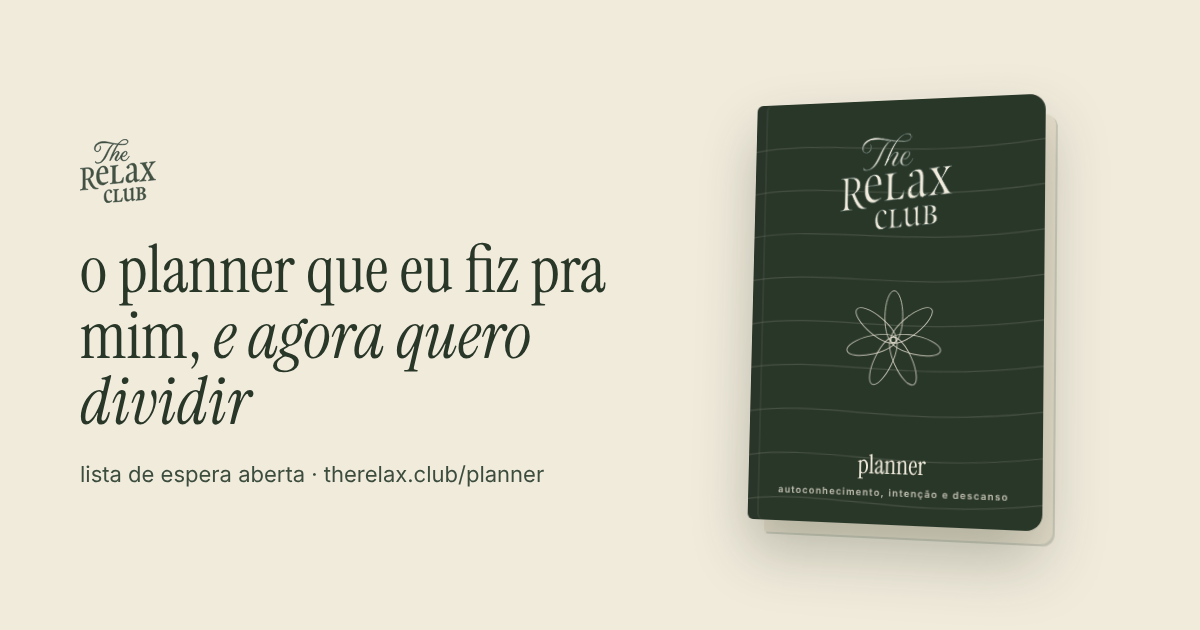
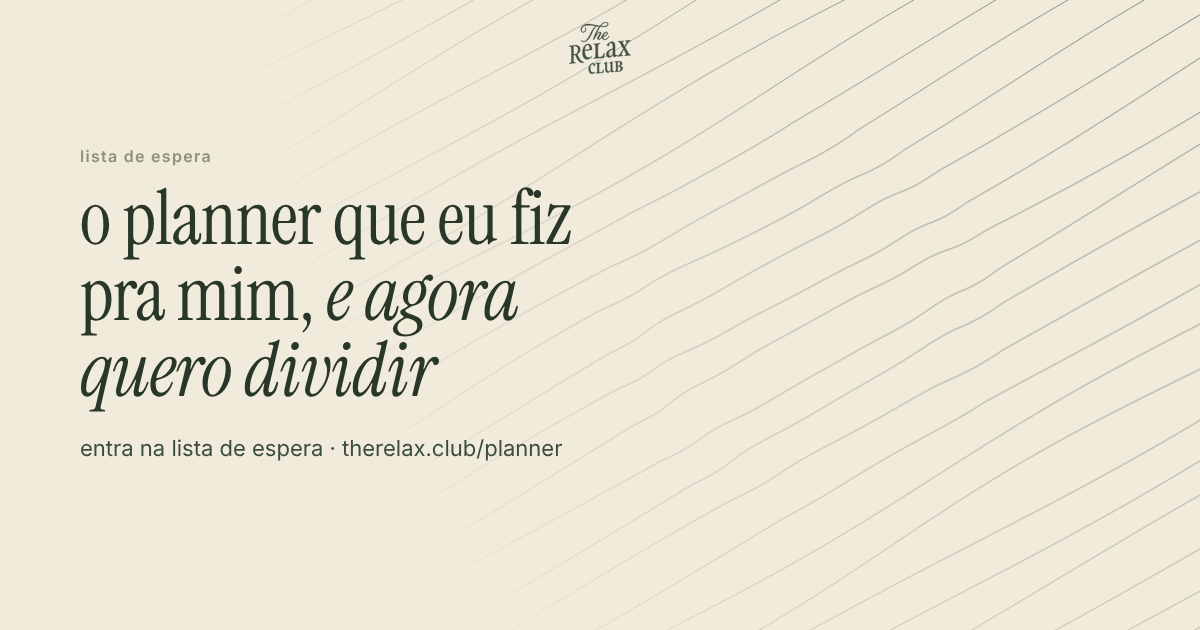
planner: mare na diagonal com interacao no lugar do mockup, universo interativo no o que tem dentro, frase nova
Claude-Session: https://claude.ai/code/session_01UHyGXmNV3W6yahsGyq7Frc

diff --git a/planner/index.html b/planner/index.html
@@ -31,23 +31,15 @@
 .lp-top{display:flex;justify-content:center;padding:22px 0 0}
 .lp-top img{height:52px;display:block}
 .lp-hero{display:grid;gap:36px;align-items:center;padding:36px 0 18px}
-@media(min-width:900px){.lp-hero{grid-template-columns:1.15fr .85fr;gap:56px;padding-top:56px}}
+@media(min-width:900px){.lp-hero{grid-template-columns:minmax(0,640px) 1fr;padding-top:56px}}
 .lp-eyebrow{font-size:12px;font-weight:600;letter-spacing:.08em;color:var(--sage);text-transform:lowercase;margin:0 0 12px}
 .lp h1{font-family:var(--serif);font-weight:300;font-size:clamp(42px,6.2vw,68px);line-height:1;color:var(--green-deep);margin:0 0 18px;text-wrap:balance}
 .lp h1 em{font-style:italic}
 .lp-lead{font-size:17px;line-height:1.6;color:var(--green);margin:0 0 26px;max-width:540px}
-/* livro */
-.livro-palco{perspective:1200px;display:flex;justify-content:center;padding:10px 0 20px}
-.livro{position:relative;width:min(300px,72vw);aspect-ratio:148/210;border-radius:6px 16px 16px 6px;background:var(--green-deep);color:var(--paper);
-  box-shadow:inset 10px 0 0 rgba(0,0,0,.18),inset 12px 0 0 rgba(241,235,220,.06),0 30px 60px rgba(41,55,41,.28),14px 16px 0 -4px #E7DFCC,16px 18px 0 -4px rgba(41,55,41,.18);
-  transform:rotateY(-14deg) rotateX(4deg);transition:transform .7s cubic-bezier(.2,.8,.2,1);display:flex;flex-direction:column;align-items:center;justify-content:space-between;padding:34px 24px 26px;overflow:hidden}
-.livro:hover{transform:rotateY(-4deg) rotateX(2deg)}
-.livro .ln{position:absolute;inset:0;width:100%;height:100%;opacity:.14}
-.livro img{width:46%;position:relative}
-.livro svg.fl{width:46%;position:relative;overflow:visible}
-.livro svg.fl ellipse{fill:none;stroke:rgba(241,235,220,.75);stroke-width:1}
-.livro .tt{position:relative;text-align:center;font-family:var(--serif);font-size:26px;line-height:1.05}
-.livro .tt small{display:block;font-family:var(--sans);font-size:9.5px;letter-spacing:.14em;font-weight:600;opacity:.75;margin-top:8px}
+
+#mare-d{position:absolute;left:0;top:0;width:100%;height:1100px;z-index:0;pointer-events:none;display:block}
+.lp,.fim{position:relative;z-index:1}
+body{position:relative;overflow-x:hidden}
 /* formulário */
 .form{background:var(--cream);border:1px solid var(--line);border-radius:24px;padding:22px 22px 18px;max-width:540px}
 .form h2{font-family:var(--serif);font-weight:300;font-size:28px;line-height:1.05;color:var(--green-deep);margin:0 0 6px}
@@ -70,15 +62,43 @@
 .dentro{padding:46px 0 10px}
 .dentro h2{font-family:var(--serif);font-weight:300;font-size:clamp(32px,4vw,44px);line-height:1.05;color:var(--green-deep);margin:0 0 8px}
 .dentro > p{font-size:16px;color:var(--green);margin:0 0 22px;max-width:620px;line-height:1.6}
-.caps{display:grid;gap:12px}
-@media(min-width:720px){.caps{grid-template-columns:repeat(2,1fr)}}
-@media(min-width:1000px){.caps{grid-template-columns:repeat(3,1fr)}}
-.cap{background:var(--cream);border:1px solid var(--line);border-radius:20px;padding:18px 18px 16px}
-.cap small{display:block;font-size:11.5px;font-weight:600;letter-spacing:.06em;color:var(--sage);margin-bottom:6px}
-.cap b{display:block;font-family:var(--serif);font-weight:300;font-size:24px;line-height:1.1;color:var(--green-deep);margin-bottom:6px}
-.cap span{font-size:14.5px;line-height:1.55;color:var(--green)}
-.cap.escuro{background:var(--green-deep);border-color:var(--green-deep)}
-.cap.escuro small{color:#A8B0A0}.cap.escuro b{color:var(--paper)}.cap.escuro span{color:#D9D3C3}
+
+/* universo */
+.uni-wrap{display:grid;gap:18px;align-items:start}
+@media(min-width:900px){.uni-wrap{grid-template-columns:1fr 1fr;gap:48px;align-items:center}}
+.uni-palco{position:sticky;top:8px;z-index:2;background:linear-gradient(var(--paper) 82%,rgba(241,235,220,0));padding:6px 0 10px}
+@media(min-width:900px){.uni-palco{position:static;background:none;padding:0}}
+.uni{width:min(420px,78vw);display:block;margin:0 auto;overflow:visible}
+.uni .L{transition:opacity .5s ease}
+.uni.foco .L{opacity:.16}
+.uni.foco .L.on{opacity:1}
+.uni circle,.uni ellipse,.uni line{fill:none;stroke:var(--green-deep);stroke-width:1}
+.L-dias circle{fill:var(--green-deep);stroke:none;opacity:.25;animation:dia 9s linear infinite;animation-delay:calc(var(--i)*.05s)}
+@keyframes dia{0%,100%{opacity:.18}6%{opacity:1}22%{opacity:.4}}
+.L-orbitas circle{stroke-opacity:.45}
+.L-orbitas .pl{fill:var(--green-deep);stroke:none}
+.orb{transform-origin:200px 200px;animation:gira var(--d) linear infinite;transform:rotate(calc(var(--r)*1deg))}
+@keyframes gira{from{transform:rotate(calc(var(--r)*1deg))}to{transform:rotate(calc(var(--r)*1deg + 360deg))}}
+.L-pilares line{stroke-width:1.4;stroke-dasharray:3 4}
+.L-ambitos ellipse{stroke-opacity:.8}
+.L-ambitos > g{transform-origin:200px 200px}
+.uni:not(.foco) .L-ambitos > g,.L-ambitos.on > g{animation:respira 6s ease-in-out infinite}
+@keyframes respira{0%,100%{transform:translate(140px,140px) scale(1)}50%{transform:translate(140px,140px) scale(1.06)}}
+.L-centro .cc{fill:var(--green-deep);stroke:none}
+.L-centro .halo{stroke-opacity:.4;animation:halo 3.2s ease-out infinite;transform-origin:200px 200px}
+@keyframes halo{0%{transform:scale(.7);opacity:.9}100%{transform:scale(2.2);opacity:0}}
+.L.on circle,.L.on ellipse,.L.on line{stroke-opacity:1}
+.itens{list-style:none;margin:0;padding:0;display:grid;gap:10px}
+.it{display:flex;gap:14px;align-items:flex-start;background:var(--cream);border:1px solid var(--line);border-radius:20px;padding:16px 16px 14px;cursor:pointer;transition:background .35s,border-color .35s,transform .35s}
+.it:hover,.it.on{background:var(--green-deep);border-color:var(--green-deep);transform:translateX(4px)}
+.it .bol,.colinha .bol{flex:none;width:40px;height:40px;border-radius:50%;border:1px solid var(--line);display:grid;place-items:center;color:var(--green-deep);background:var(--paper);transition:all .35s}
+.it .bol svg,.colinha .bol svg{width:22px;height:22px}
+.it.on .bol,.it:hover .bol{background:transparent;border-color:rgba(241,235,220,.4);color:var(--paper)}
+.it .tx b{display:block;font-family:var(--serif);font-weight:300;font-size:23px;line-height:1.1;color:var(--green-deep);margin-bottom:4px;transition:color .35s}
+.it .tx span{font-size:14.5px;line-height:1.55;color:var(--green);transition:color .35s}
+.it.on .tx b,.it:hover .tx b{color:var(--paper)}.it.on .tx span,.it:hover .tx span{color:#D9D3C3}
+.colinha{display:flex;gap:14px;align-items:center;margin:18px 0 0;font-size:15px;color:var(--green);max-width:620px}
+@media (prefers-reduced-motion:reduce){.uni *{animation:none!important}}
 .por-que{display:grid;gap:22px;align-items:center;padding:46px 0 20px}
 @media(min-width:900px){.por-que{grid-template-columns:auto 1fr;gap:34px}}
 .por-que img{width:96px;height:96px;border-radius:50%;object-fit:cover}
@@ -89,6 +109,7 @@
 </style>
 </head>
 <body>
+<canvas id="mare-d" aria-hidden="true"></canvas>
 <div class="lp">
 <header class="lp-top"><a href="/" aria-label="the relax club, ir pra sede"><img src="/logo.svg" alt="the relax club" width="62" height="52"></a></header>
 
@@ -117,32 +138,27 @@
       </div>
     </form>
   </div>
-  <div class="livro-palco" aria-hidden="true">
-    <div class="livro">
-      <svg class="ln" viewBox="0 0 148 210" preserveAspectRatio="none"><path d="M0 24 C 40 18, 80 31, 148 22" fill="none" stroke="#F1EBDC" stroke-width=".6"/><path d="M0 46 C 40 40, 80 53, 148 44" fill="none" stroke="#F1EBDC" stroke-width=".6"/><path d="M0 68 C 40 62, 80 75, 148 66" fill="none" stroke="#F1EBDC" stroke-width=".6"/><path d="M0 90 C 40 84, 80 97, 148 88" fill="none" stroke="#F1EBDC" stroke-width=".6"/><path d="M0 112 C 40 106, 80 119, 148 110" fill="none" stroke="#F1EBDC" stroke-width=".6"/><path d="M0 134 C 40 128, 80 141, 148 132" fill="none" stroke="#F1EBDC" stroke-width=".6"/><path d="M0 156 C 40 150, 80 163, 148 154" fill="none" stroke="#F1EBDC" stroke-width=".6"/><path d="M0 178 C 40 172, 80 185, 148 176" fill="none" stroke="#F1EBDC" stroke-width=".6"/><path d="M0 200 C 40 194, 80 207, 148 198" fill="none" stroke="#F1EBDC" stroke-width=".6"/></svg>
-      <img src="/logo-claro.svg" alt="">
-      <svg class="fl" viewBox="0 0 120 120"><ellipse cx="60" cy="36" rx="9.5" ry="27" transform="rotate(0 60 36)"/><ellipse cx="78.8" cy="45" rx="9.5" ry="27" transform="rotate(51.43 78.8 45)"/><ellipse cx="83.4" cy="65.3" rx="9.5" ry="27" transform="rotate(102.86 83.4 65.3)"/><ellipse cx="70.4" cy="81.6" rx="9.5" ry="27" transform="rotate(154.29 70.4 81.6)"/><ellipse cx="49.6" cy="81.6" rx="9.5" ry="27" transform="rotate(205.71 49.6 81.6)"/><ellipse cx="36.6" cy="65.3" rx="9.5" ry="27" transform="rotate(257.14 36.6 65.3)"/><ellipse cx="41.2" cy="45" rx="9.5" ry="27" transform="rotate(308.57 41.2 45)"/></svg>
-      <div class="tt">planner<small>AUTOCONHECIMENTO, INTENÇÃO E DESCANSO</small></div>
-    </div>
-  </div>
 </section>
 
-<section class="dentro">
+<section class="dentro" id="dentro">
   <h2>o que tem dentro</h2>
-  <p>primeiro uma fundação, pra você entender o seu cenário de vida hoje e desenhar o que quer. depois o dia a dia, que vai alimentando essa fundação.</p>
-  <div class="caps">
-    <div class="cap"><small>01</small><b>o centro</b><span>as histórias que te contaram sobre quem você deveria ser, os papéis que você exerce, o que você sente e do que precisa.</span></div>
-    <div class="cap"><small>02</small><b>as órbitas</b><span>trabalho, família, casa, o que te ocupa. o que cada coisa faz de bom e de ruim pra você.</span></div>
-    <div class="cap"><small>03</small><b>os pilares</b><span>o que sustenta a sua vida de verdade, e por que cada coisa importa.</span></div>
-    <div class="cap"><small>04</small><b>os 7 âmbitos da energia</b><span>físico, mental, emocional, social, sensorial, criativo e espiritual. o que te cansa e o que te recarrega em cada um.</span></div>
-    <div class="cap escuro"><small>todo dia</small><b>seis meses, uma página por dia</b><span>com páginas de mês e de semana, pra registrar o que drenou, o que deu energia e o que te deixou mais feliz.</span></div>
-    <div class="cap"><small>pra não travar</small><b>colinhas em todo exercício</b><span>exemplos e opções pra você nunca ficar olhando pra página em branco.</span></div>
+  <p>o planner funciona como um universo. você no centro, o que gira ao seu redor, o que te sustenta e a sua energia. passa o dedo (ou o mouse) em cada parte pra ver.</p>
+  <div class="uni-wrap">
+    <div class="uni-palco"><svg class="uni" viewBox="0 0 400 400" role="img" aria-label="o universo do planner: o centro, as órbitas, os pilares, os 7 âmbitos da energia e os dias">
+  <g class="L L-dias"><circle cx="200.0" cy="24.0" r="1.7" style="--i:0"/><circle cx="206.1" cy="24.1" r="1.7" style="--i:1"/><circle cx="212.3" cy="24.4" r="1.7" style="--i:2"/><circle cx="218.4" cy="25.0" r="1.7" style="--i:3"/><circle cx="224.5" cy="25.7" r="1.7" style="--i:4"/><circle cx="230.6" cy="26.7" r="1.7" style="--i:5"/><circle cx="236.6" cy="27.8" r="1.7" style="--i:6"/><circle cx="242.6" cy="29.2" r="1.7" style="--i:7"/><circle cx="248.5" cy="30.8" r="1.7" style="--i:8"/><circle cx="254.4" cy="32.6" r="1.7" style="--i:9"/><circle cx="260.2" cy="34.6" r="1.7" style="--i:10"/><circle cx="265.9" cy="36.8" r="1.7" style="--i:11"/><circle cx="271.6" cy="39.2" r="1.7" style="--i:12"/><circle cx="277.2" cy="41.8" r="1.7" style="--i:13"/><circle cx="282.6" cy="44.6" r="1.7" style="--i:14"/><circle cx="288.0" cy="47.6" r="1.7" style="--i:15"/><circle cx="293.3" cy="50.7" r="1.7" style="--i:16"/><circle cx="298.4" cy="54.1" r="1.7" style="--i:17"/><circle cx="303.5" cy="57.6" r="1.7" style="--i:18"/><circle cx="308.4" cy="61.3" r="1.7" style="--i:19"/><circle cx="313.1" cy="65.2" r="1.7" style="--i:20"/><circle cx="317.8" cy="69.2" r="1.7" style="--i:21"/><circle cx="322.3" cy="73.4" r="1.7" style="--i:22"/><circle cx="326.6" cy="77.7" r="1.7" style="--i:23"/><circle cx="330.8" cy="82.2" r="1.7" style="--i:24"/><circle cx="334.8" cy="86.9" r="1.7" style="--i:25"/><circle cx="338.7" cy="91.6" r="1.7" style="--i:26"/><circle cx="342.4" cy="96.5" r="1.7" style="--i:27"/><circle cx="345.9" cy="101.6" r="1.7" style="--i:28"/><circle cx="349.3" cy="106.7" r="1.7" style="--i:29"/><circle cx="352.4" cy="112.0" r="1.7" style="--i:30"/><circle cx="355.4" cy="117.4" r="1.7" style="--i:31"/><circle cx="358.2" cy="122.8" r="1.7" style="--i:32"/><circle cx="360.8" cy="128.4" r="1.7" style="--i:33"/><circle cx="363.2" cy="134.1" r="1.7" style="--i:34"/><circle cx="365.4" cy="139.8" r="1.7" style="--i:35"/><circle cx="367.4" cy="145.6" r="1.7" style="--i:36"/><circle cx="369.2" cy="151.5" r="1.7" style="--i:37"/><circle cx="370.8" cy="157.4" r="1.7" style="--i:38"/><circle cx="372.2" cy="163.4" r="1.7" style="--i:39"/><circle cx="373.3" cy="169.4" r="1.7" style="--i:40"/><circle cx="374.3" cy="175.5" r="1.7" style="--i:41"/><circle cx="375.0" cy="181.6" r="1.7" style="--i:42"/><circle cx="375.6" cy="187.7" r="1.7" style="--i:43"/><circle cx="375.9" cy="193.9" r="1.7" style="--i:44"/><circle cx="376.0" cy="200.0" r="1.7" style="--i:45"/><circle cx="375.9" cy="206.1" r="1.7" style="--i:46"/><circle cx="375.6" cy="212.3" r="1.7" style="--i:47"/><circle cx="375.0" cy="218.4" r="1.7" style="--i:48"/><circle cx="374.3" cy="224.5" r="1.7" style="--i:49"/><circle cx="373.3" cy="230.6" r="1.7" style="--i:50"/><circle cx="372.2" cy="236.6" r="1.7" style="--i:51"/><circle cx="370.8" cy="242.6" r="1.7" style="--i:52"/><circle cx="369.2" cy="248.5" r="1.7" style="--i:53"/><circle cx="367.4" cy="254.4" r="1.7" style="--i:54"/><circle cx="365.4" cy="260.2" r="1.7" style="--i:55"/><circle cx="363.2" cy="265.9" r="1.7" style="--i:56"/><circle cx="360.8" cy="271.6" r="1.7" style="--i:57"/><circle cx="358.2" cy="277.2" r="1.7" style="--i:58"/><circle cx="355.4" cy="282.6" r="1.7" style="--i:59"/><circle cx="352.4" cy="288.0" r="1.7" style="--i:60"/><circle cx="349.3" cy="293.3" r="1.7" style="--i:61"/><circle cx="345.9" cy="298.4" r="1.7" style="--i:62"/><circle cx="342.4" cy="303.5" r="1.7" style="--i:63"/><circle cx="338.7" cy="308.4" r="1.7" style="--i:64"/><circle cx="334.8" cy="313.1" r="1.7" style="--i:65"/><circle cx="330.8" cy="317.8" r="1.7" style="--i:66"/><circle cx="326.6" cy="322.3" r="1.7" style="--i:67"/><circle cx="322.3" cy="326.6" r="1.7" style="--i:68"/><circle cx="317.8" cy="330.8" r="1.7" style="--i:69"/><circle cx="313.1" cy="334.8" r="1.7" style="--i:70"/><circle cx="308.4" cy="338.7" r="1.7" style="--i:71"/><circle cx="303.5" cy="342.4" r="1.7" style="--i:72"/><circle cx="298.4" cy="345.9" r="1.7" style="--i:73"/><circle cx="293.3" cy="349.3" r="1.7" style="--i:74"/><circle cx="288.0" cy="352.4" r="1.7" style="--i:75"/><circle cx="282.6" cy="355.4" r="1.7" style="--i:76"/><circle cx="277.2" cy="358.2" r="1.7" style="--i:77"/><circle cx="271.6" cy="360.8" r="1.7" style="--i:78"/><circle cx="265.9" cy="363.2" r="1.7" style="--i:79"/><circle cx="260.2" cy="365.4" r="1.7" style="--i:80"/><circle cx="254.4" cy="367.4" r="1.7" style="--i:81"/><circle cx="248.5" cy="369.2" r="1.7" style="--i:82"/><circle cx="242.6" cy="370.8" r="1.7" style="--i:83"/><circle cx="236.6" cy="372.2" r="1.7" style="--i:84"/><circle cx="230.6" cy="373.3" r="1.7" style="--i:85"/><circle cx="224.5" cy="374.3" r="1.7" style="--i:86"/><circle cx="218.4" cy="375.0" r="1.7" style="--i:87"/><circle cx="212.3" cy="375.6" r="1.7" style="--i:88"/><circle cx="206.1" cy="375.9" r="1.7" style="--i:89"/><circle cx="200.0" cy="376.0" r="1.7" style="--i:90"/><circle cx="193.9" cy="375.9" r="1.7" style="--i:91"/><circle cx="187.7" cy="375.6" r="1.7" style="--i:92"/><circle cx="181.6" cy="375.0" r="1.7" style="--i:93"/><circle cx="175.5" cy="374.3" r="1.7" style="--i:94"/><circle cx="169.4" cy="373.3" r="1.7" style="--i:95"/><circle cx="163.4" cy="372.2" r="1.7" style="--i:96"/><circle cx="157.4" cy="370.8" r="1.7" style="--i:97"/><circle cx="151.5" cy="369.2" r="1.7" style="--i:98"/><circle cx="145.6" cy="367.4" r="1.7" style="--i:99"/><circle cx="139.8" cy="365.4" r="1.7" style="--i:100"/><circle cx="134.1" cy="363.2" r="1.7" style="--i:101"/><circle cx="128.4" cy="360.8" r="1.7" style="--i:102"/><circle cx="122.8" cy="358.2" r="1.7" style="--i:103"/><circle cx="117.4" cy="355.4" r="1.7" style="--i:104"/><circle cx="112.0" cy="352.4" r="1.7" style="--i:105"/><circle cx="106.7" cy="349.3" r="1.7" style="--i:106"/><circle cx="101.6" cy="345.9" r="1.7" style="--i:107"/><circle cx="96.5" cy="342.4" r="1.7" style="--i:108"/><circle cx="91.6" cy="338.7" r="1.7" style="--i:109"/><circle cx="86.9" cy="334.8" r="1.7" style="--i:110"/><circle cx="82.2" cy="330.8" r="1.7" style="--i:111"/><circle cx="77.7" cy="326.6" r="1.7" style="--i:112"/><circle cx="73.4" cy="322.3" r="1.7" style="--i:113"/><circle cx="69.2" cy="317.8" r="1.7" style="--i:114"/><circle cx="65.2" cy="313.1" r="1.7" style="--i:115"/><circle cx="61.3" cy="308.4" r="1.7" style="--i:116"/><circle cx="57.6" cy="303.5" r="1.7" style="--i:117"/><circle cx="54.1" cy="298.4" r="1.7" style="--i:118"/><circle cx="50.7" cy="293.3" r="1.7" style="--i:119"/><circle cx="47.6" cy="288.0" r="1.7" style="--i:120"/><circle cx="44.6" cy="282.6" r="1.7" style="--i:121"/><circle cx="41.8" cy="277.2" r="1.7" style="--i:122"/><circle cx="39.2" cy="271.6" r="1.7" style="--i:123"/><circle cx="36.8" cy="265.9" r="1.7" style="--i:124"/><circle cx="34.6" cy="260.2" r="1.7" style="--i:125"/><circle cx="32.6" cy="254.4" r="1.7" style="--i:126"/><circle cx="30.8" cy="248.5" r="1.7" style="--i:127"/><circle cx="29.2" cy="242.6" r="1.7" style="--i:128"/><circle cx="27.8" cy="236.6" r="1.7" style="--i:129"/><circle cx="26.7" cy="230.6" r="1.7" style="--i:130"/><circle cx="25.7" cy="224.5" r="1.7" style="--i:131"/><circle cx="25.0" cy="218.4" r="1.7" style="--i:132"/><circle cx="24.4" cy="212.3" r="1.7" style="--i:133"/><circle cx="24.1" cy="206.1" r="1.7" style="--i:134"/><circle cx="24.0" cy="200.0" r="1.7" style="--i:135"/><circle cx="24.1" cy="193.9" r="1.7" style="--i:136"/><circle cx="24.4" cy="187.7" r="1.7" style="--i:137"/><circle cx="25.0" cy="181.6" r="1.7" style="--i:138"/><circle cx="25.7" cy="175.5" r="1.7" style="--i:139"/><circle cx="26.7" cy="169.4" r="1.7" style="--i:140"/><circle cx="27.8" cy="163.4" r="1.7" style="--i:141"/><circle cx="29.2" cy="157.4" r="1.7" style="--i:142"/><circle cx="30.8" cy="151.5" r="1.7" style="--i:143"/><circle cx="32.6" cy="145.6" r="1.7" style="--i:144"/><circle cx="34.6" cy="139.8" r="1.7" style="--i:145"/><circle cx="36.8" cy="134.1" r="1.7" style="--i:146"/><circle cx="39.2" cy="128.4" r="1.7" style="--i:147"/><circle cx="41.8" cy="122.8" r="1.7" style="--i:148"/><circle cx="44.6" cy="117.4" r="1.7" style="--i:149"/><circle cx="47.6" cy="112.0" r="1.7" style="--i:150"/><circle cx="50.7" cy="106.7" r="1.7" style="--i:151"/><circle cx="54.1" cy="101.6" r="1.7" style="--i:152"/><circle cx="57.6" cy="96.5" r="1.7" style="--i:153"/><circle cx="61.3" cy="91.6" r="1.7" style="--i:154"/><circle cx="65.2" cy="86.9" r="1.7" style="--i:155"/><circle cx="69.2" cy="82.2" r="1.7" style="--i:156"/><circle cx="73.4" cy="77.7" r="1.7" style="--i:157"/><circle cx="77.7" cy="73.4" r="1.7" style="--i:158"/><circle cx="82.2" cy="69.2" r="1.7" style="--i:159"/><circle cx="86.9" cy="65.2" r="1.7" style="--i:160"/><circle cx="91.6" cy="61.3" r="1.7" style="--i:161"/><circle cx="96.5" cy="57.6" r="1.7" style="--i:162"/><circle cx="101.6" cy="54.1" r="1.7" style="--i:163"/><circle cx="106.7" cy="50.7" r="1.7" style="--i:164"/><circle cx="112.0" cy="47.6" r="1.7" style="--i:165"/><circle cx="117.4" cy="44.6" r="1.7" style="--i:166"/><circle cx="122.8" cy="41.8" r="1.7" style="--i:167"/><circle cx="128.4" cy="39.2" r="1.7" style="--i:168"/><circle cx="134.1" cy="36.8" r="1.7" style="--i:169"/><circle cx="139.8" cy="34.6" r="1.7" style="--i:170"/><circle cx="145.6" cy="32.6" r="1.7" style="--i:171"/><circle cx="151.5" cy="30.8" r="1.7" style="--i:172"/><circle cx="157.4" cy="29.2" r="1.7" style="--i:173"/><circle cx="163.4" cy="27.8" r="1.7" style="--i:174"/><circle cx="169.4" cy="26.7" r="1.7" style="--i:175"/><circle cx="175.5" cy="25.7" r="1.7" style="--i:176"/><circle cx="181.6" cy="25.0" r="1.7" style="--i:177"/><circle cx="187.7" cy="24.4" r="1.7" style="--i:178"/><circle cx="193.9" cy="24.1" r="1.7" style="--i:179"/></g>
+  <g class="L L-orbitas"><g class="orb" style="--d:38s;--r:0"><circle cx="200" cy="200" r="96" /><circle class="pl" cx="296" cy="200" r="4.5"/></g><g class="orb" style="--d:56s;--r:120"><circle cx="200" cy="200" r="124" /><circle class="pl" cx="324" cy="200" r="3.5"/></g><g class="orb" style="--d:80s;--r:240"><circle cx="200" cy="200" r="152" /><circle class="pl" cx="352" cy="200" r="5"/></g></g>
+  <g class="L L-pilares"><line x1="257.3" y1="240.2" x2="322.9" y2="286.0"/><line x1="142.7" y1="240.2" x2="77.1" y2="286.0"/><line x1="142.7" y1="159.8" x2="77.1" y2="114.0"/><line x1="257.3" y1="159.8" x2="322.9" y2="114.0"/></g>
+  <g class="L L-ambitos"><g transform="translate(140 140)"><ellipse cx="60" cy="36" rx="9.5" ry="27" transform="rotate(0 60 36)"/><ellipse cx="78.8" cy="45" rx="9.5" ry="27" transform="rotate(51.43 78.8 45)"/><ellipse cx="83.4" cy="65.3" rx="9.5" ry="27" transform="rotate(102.86 83.4 65.3)"/><ellipse cx="70.4" cy="81.6" rx="9.5" ry="27" transform="rotate(154.29 70.4 81.6)"/><ellipse cx="49.6" cy="81.6" rx="9.5" ry="27" transform="rotate(205.71 49.6 81.6)"/><ellipse cx="36.6" cy="65.3" rx="9.5" ry="27" transform="rotate(257.14 36.6 65.3)"/><ellipse cx="41.2" cy="45" rx="9.5" ry="27" transform="rotate(308.57 41.2 45)"/></g></g>
+  <g class="L L-centro"><circle cx="200" cy="200" r="16" class="cc"/><circle cx="200" cy="200" r="26" class="halo"/></g>
+</svg></div>
+    <ol class="itens"><li class="it" data-l="centro" tabindex="0"><span class="bol"><svg viewBox="0 0 24 24" fill="none" stroke="currentColor" stroke-width="1.4"><circle cx="12" cy="12" r="3.4" fill="currentColor"/><circle cx="12" cy="12" r="6.5"/></svg></span><span class="tx"><b>o centro</b><span>as histórias que te contaram sobre quem você deveria ser, os papéis que você exerce, o que você sente e do que precisa. é aqui que tudo começa: você.</span></span></li><li class="it" data-l="orbitas" tabindex="0"><span class="bol"><svg viewBox="0 0 24 24" fill="none" stroke="currentColor" stroke-width="1.4"><circle cx="12" cy="12" r="1.8" fill="currentColor"/><circle cx="12" cy="12" r="8" stroke-dasharray="2 2"/><circle cx="17.7" cy="6.3" r="1.7" fill="currentColor"/></svg></span><span class="tx"><b>as órbitas</b><span>trabalho, família, casa, tudo o que gira ao seu redor. o que cada coisa faz de bom e de ruim pra você.</span></span></li><li class="it" data-l="pilares" tabindex="0"><span class="bol"><svg viewBox="0 0 24 24" fill="none" stroke="currentColor" stroke-width="1.4"><path d="M6 19V7M12 19V5M18 19V7M4 19h16"/></svg></span><span class="tx"><b>os pilares</b><span>o que sustenta a sua vida de verdade, e por que cada coisa importa pra você.</span></span></li><li class="it" data-l="ambitos" tabindex="0"><span class="bol"><svg viewBox="0 0 24 24" fill="none" stroke="currentColor" stroke-width="1.4"><ellipse cx="12" cy="6.6" rx="1.8" ry="5" transform="rotate(0.0 12 12)"/><ellipse cx="12" cy="6.6" rx="1.8" ry="5" transform="rotate(51.43 12 12)"/><ellipse cx="12" cy="6.6" rx="1.8" ry="5" transform="rotate(102.86 12 12)"/><ellipse cx="12" cy="6.6" rx="1.8" ry="5" transform="rotate(154.29 12 12)"/><ellipse cx="12" cy="6.6" rx="1.8" ry="5" transform="rotate(205.72 12 12)"/><ellipse cx="12" cy="6.6" rx="1.8" ry="5" transform="rotate(257.15 12 12)"/><ellipse cx="12" cy="6.6" rx="1.8" ry="5" transform="rotate(308.58 12 12)"/></svg></span><span class="tx"><b>os 7 âmbitos da energia</b><span>físico, mental, emocional, social, sensorial, criativo e espiritual. o que te cansa e o que te recarrega em cada um.</span></span></li><li class="it" data-l="dias" tabindex="0"><span class="bol"><svg viewBox="0 0 24 24" fill="none" stroke="currentColor" stroke-width="1.4"><circle cx="20.0" cy="12.0" r="1.1" fill="currentColor"/><circle cx="18.9" cy="16.0" r="1.1" fill="currentColor"/><circle cx="16.0" cy="18.9" r="1.1" fill="currentColor"/><circle cx="12.0" cy="20.0" r="1.1" fill="currentColor"/><circle cx="8.0" cy="18.9" r="1.1" fill="currentColor"/><circle cx="5.1" cy="16.0" r="1.1" fill="currentColor"/><circle cx="4.0" cy="12.0" r="1.1" fill="currentColor"/><circle cx="5.1" cy="8.0" r="1.1" fill="currentColor"/><circle cx="8.0" cy="5.1" r="1.1" fill="currentColor"/><circle cx="12.0" cy="4.0" r="1.1" fill="currentColor"/><circle cx="16.0" cy="5.1" r="1.1" fill="currentColor"/><circle cx="18.9" cy="8.0" r="1.1" fill="currentColor"/></svg></span><span class="tx"><b>seis meses, um dia de cada vez</b><span>uma página por dia, com mês e semana, pra registrar o que drenou, o que deu energia e o que te deixou mais feliz. o dia a dia vai alimentando tudo o que veio antes.</span></span></li></ol>
   </div>
+  <p class="colinha"><span class="bol"><svg viewBox="0 0 24 24" fill="none" stroke="currentColor" stroke-width="1.4"><path d="M6 4h9l3 3v13H6z"/><path d="M9 10h6M9 13h6M9 16h4"/></svg></span>e em todo exercício tem colinha, com exemplos e opções, pra você nunca ficar olhando pra página em branco.</p>
 </section>
 
 <section class="por-que">
   <img src="/teste/clara.jpg" alt="clara ramos" width="96" height="96">
-  <p>“eu li muitos livros nesse meu processo de autoconhecimento e fui montando exercícios a partir das técnicas que encontrei neles. juntei tudo num planner que eu fiz pra mim, usei, e agora quero compartilhar.”<span>clara ramos, criadora da the relax club</span></p>
+  <p>“eu li alguns livros no meu processo de autoconhecimento e fui montando exercícios a partir das técnicas que encontrei neles. então juntei tudo num planner que fiz pra mim, usei, e agora quero compartilhar.”<span>clara ramos, criadora da the relax club</span></p>
 </section>
 
 <div class="fim-cta"><a href="#form" id="subir">entrar na lista de espera</a></div>
@@ -170,6 +186,68 @@
     })
     .catch(function(){ btn.disabled=false; btn.textContent='quero entrar na lista'; msg.textContent='não consegui salvar agora. tenta de novo em um minutinho?'; });
   });
+})();
+</script>
+
+<script>
+/* universo do planner: passa o mouse, toca ou rola até cada parte e ela acende no desenho */
+(function(){
+  var uni=document.querySelector('.uni'), its=[].slice.call(document.querySelectorAll('.it')), atual=null, auto=true, idx=0;
+  function liga(k){ atual=k; uni.classList.toggle('foco',!!k);
+    [].forEach.call(uni.querySelectorAll('.L'),function(g){ g.classList.toggle('on',g.classList.contains('L-'+k)); });
+    its.forEach(function(i){ i.classList.toggle('on',i.dataset.l===k); }); }
+  its.forEach(function(i){
+    i.addEventListener('mouseenter',function(){ auto=false; liga(i.dataset.l); });
+    i.addEventListener('focus',function(){ auto=false; liga(i.dataset.l); });
+    i.addEventListener('click',function(){ auto=false; liga(i.dataset.l); try{gtag('event','planner_universo',{parte:i.dataset.l});}catch(e){} });
+  });
+  document.querySelector('.itens').addEventListener('mouseleave',function(){ if(matchMedia('(hover:hover)').matches){ auto=true; } });
+  if(matchMedia('(hover:none)').matches && 'IntersectionObserver' in window){
+    var io=new IntersectionObserver(function(es){ es.forEach(function(e){ if(e.isIntersecting){ auto=false; liga(e.target.dataset.l); } }); },{rootMargin:'-55% 0px -35% 0px'});
+    its.forEach(function(i){ io.observe(i); });
+  }
+  setInterval(function(){ if(!auto) return; liga(its[idx%its.length].dataset.l); idx++; },2600);
+})();
+
+/* maré na diagonal, no alto à direita: o mouse (ou o dedo) faz a água reverberar */
+(function(){
+  var c=document.getElementById('mare-d'), x=c.getContext('2d');
+  var reduce=matchMedia('(prefers-reduced-motion: reduce)').matches, touch=matchMedia('(hover: none)').matches;
+  var W=0,H=0,lines=[], ang=-0.52, ux=Math.cos(ang), uy=Math.sin(ang), nx=-uy, ny=ux;
+  function fit(){ var d=devicePixelRatio||1; W=document.documentElement.clientWidth; H=Math.min(1100,Math.max(700,innerHeight*1.15)); c.style.height=H+'px';
+    c.width=W*d; c.height=H*d; x.setTransform(d,0,0,d,0,0);
+    var gap=W<700?30:38, n=Math.ceil((W+H)/gap)+2; lines=[]; for(var i=0;i<n;i++) lines.push({o:(i-n/2)*gap,a:3+Math.random()*4,f:1+Math.random()*1.2,s:.15+Math.random()*.2,p:Math.random()*6}); }
+  fit(); addEventListener('resize',fit);
+  var rip=[], last=0;
+  function add(px,py,force,amp){ var now=performance.now(); if(now-last<90&&!force) return; last=now; rip.push({x:px,y:py,t:now,amp:amp||(force?16:9)}); if(rip.length>14) rip.shift(); }
+  addEventListener('pointermove',function(e){ if(e.pointerType==='mouse') add(e.clientX,e.clientY+scrollY,false); });
+  addEventListener('pointerdown',function(e){ add(e.clientX,e.clientY+scrollY,true); });
+  var cx=0,cy=0;
+  function draw(t){
+    var T=t/1000; x.clearRect(0,0,W,H); cx=W*.72; cy=H*.32; var L=Math.hypot(W,H);
+    for(var r=rip.length-1;r>=0;r--) if(t-rip[r].t>3200) rip.splice(r,1);
+    x.globalCompositeOperation='source-over'; x.strokeStyle='#293729'; x.lineWidth=1; x.globalAlpha=W<700?.38:.55;
+    lines.forEach(function(Ln,i){
+      x.beginPath();
+      for(var s=-L;s<=L;s+=7){
+        var w=Math.sin(s/L*Math.PI*2*Ln.f+T*Ln.s*2+Ln.p)*Ln.a+Math.sin(s/90+T*.6+i)*1.1;
+        var bx=cx+nx*Ln.o+ux*s, by=cy+ny*Ln.o+uy*s;
+        for(var k=0;k<rip.length;k++){ var R=rip[k], age=(t-R.t)/1000, dx=bx-R.x, dy=by-R.y, dist=Math.sqrt(dx*dx+dy*dy), front=age*170, kk=dist-front; if(kk>40) continue;
+          w+=R.amp*Math.exp(-age*1.3)*Math.exp(-Math.abs(kk)/60)*Math.sin(kk/14); }
+        var px=bx+nx*w, py=by+ny*w;
+        if(s===-L) x.moveTo(px,py); else x.lineTo(px,py);
+      }
+      x.stroke();
+    });
+    // some pro lado esquerdo e pra baixo: a maré mora no alto, à direita
+    x.globalCompositeOperation='destination-in'; x.globalAlpha=1;
+    var m=W<700, g=m?x.createRadialGradient(W*1.05,-H*.02,0,W*1.05,-H*.02,W*1.05):x.createRadialGradient(W*1.02,-H*.05,0,W*1.02,-H*.05,Math.max(W*.85,H*1.05));
+    g.addColorStop(0,'rgba(0,0,0,1)'); g.addColorStop(.45,'rgba(0,0,0,.75)'); g.addColorStop(1,'rgba(0,0,0,0)');
+    x.fillStyle=g; x.fillRect(0,0,W,H); x.globalCompositeOperation='source-over';
+    if(!reduce) requestAnimationFrame(draw);
+  }
+  requestAnimationFrame(draw);
+  if(!reduce){ var autoR=function(){ if(scrollY<H) add(W*(.55+Math.random()*.4),H*(.08+Math.random()*.45),true,touch?9:7); }; setInterval(autoR,touch?1800:3200); }
 })();
 </script>
 </body>
